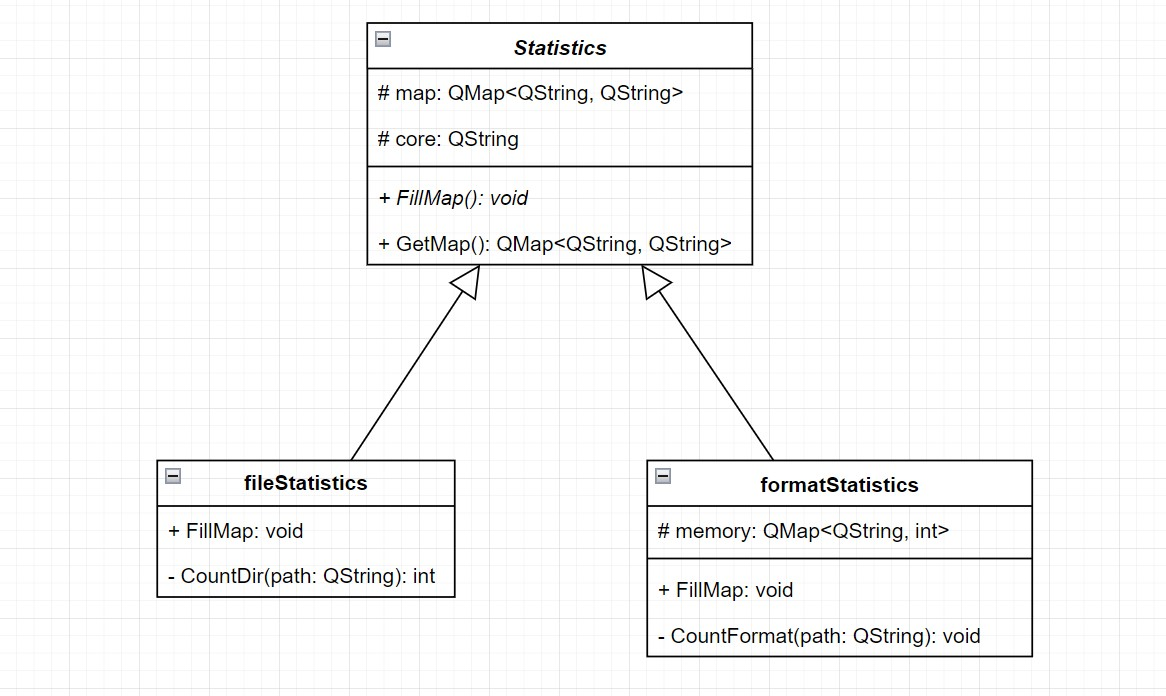
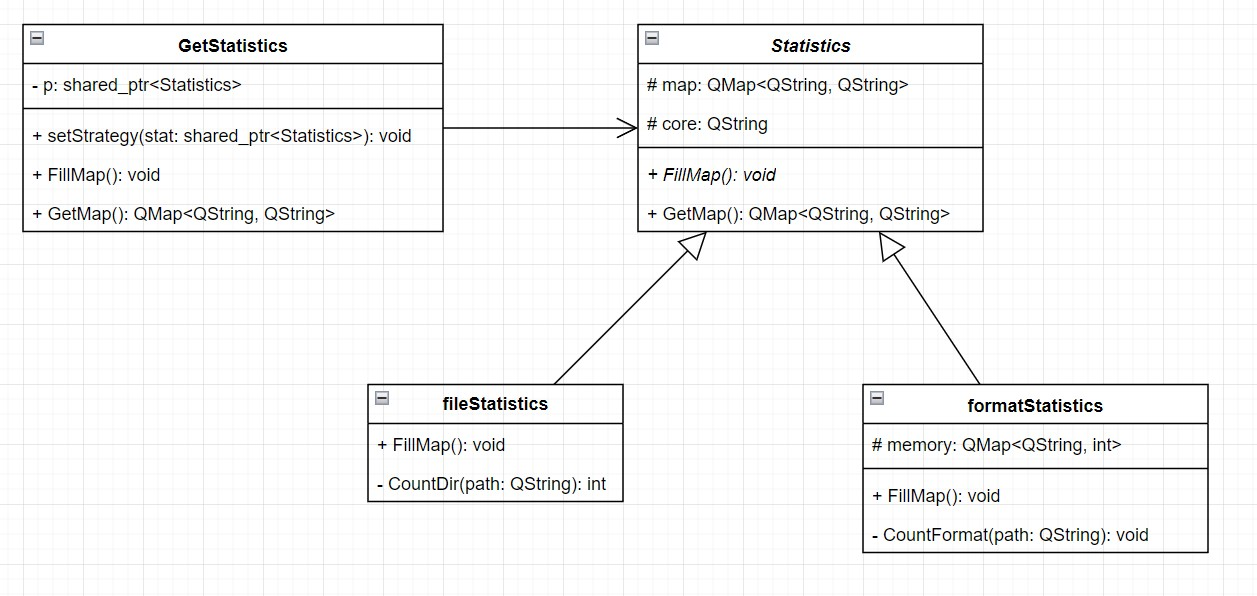
Добавил проверку на nullptr и обновил UML.

diff --git a/getstatistics.cpp b/getstatistics.cpp
@@ -1,10 +1,16 @@
 #include "getstatistics.h"
 
 
+GetStatistics::GetStatistics(const std::shared_ptr<Statistics> &stat) {
+    if(stat) p = stat;
+}
+
 void GetStatistics::FillMap() {
+    if(!p) return;
     p->FillMap();
 }
 
-const QMap<QString, QString> &GetStatistics::GetMap() {
+const QMap<QString, QString> &GetStatistics::GetMap()
+{   if(!p) return QMap<QString, QString> emptyMap;
     return p->GetMap();
 }

diff --git a/getstatistics.h b/getstatistics.h
@@ -6,7 +6,7 @@
 class GetStatistics
 {
 public:
-    GetStatistics(const std::shared_ptr<Statistics>& stat) { if(stat) p = stat; }
+    GetStatistics(const std::shared_ptr<Statistics>& stat);
     ~GetStatistics() = default;
     void setStrategy(const std::shared_ptr<Statistics>& stat) { if(stat) p = stat; }
     void FillMap();
